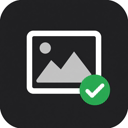
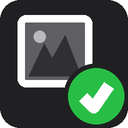
Enlarge toolbar status badges for readability (v1.5)
Redraw idle/supported/complete icons with larger corner badges and
thicker check/download glyphs so status stays clear at 16px toolbar size.

diff --git a/README.md b/README.md
@@ -1,6 +1,6 @@
 # Patreon Image Batch Downloader
 
-Manifest V3 extension (v1.4) for Chrome and desktop Firefox. It batch-extracts and downloads high-resolution images from Patreon posts.
+Manifest V3 extension (v1.5) for Chrome and desktop Firefox. It batch-extracts and downloads high-resolution images from Patreon posts.
 
 On a Patreon page, open the popup and scan. The extension collects post images (preferring original / download URLs), shows a preview, and can filter by minimum width or height. Optional auto-scroll loads more posts on feed pages before the scan. Downloads are saved under `Patreon_Downloads/`.
 
@@ -12,9 +12,11 @@ Chrome and Firefox load this same folder. Chrome 121+ runs `background.js` as a 
 
 The toolbar icon switches among three states in both browsers (`action.setIcon`):
 
-- **Idle** (`icons/default16.png`, `default48.png`, `default128.png`) — not on a Patreon page.
-- **Supported** (`icons/supported16.png`, `supported48.png`, `supported128.png`) — the active tab is a Patreon page.
-- **Complete** (`icons/complete16.png`, `complete48.png`, `complete128.png`) — a batch download just finished. The icon returns to idle or supported after a few seconds.
+- **Idle** (`icons/default16.png`, `default48.png`, `default128.png`) — not on a Patreon page (red download badge).
+- **Supported** (`icons/supported16.png`, `supported48.png`, `supported128.png`) — the active tab is a Patreon page (green check + red download badges).
+- **Complete** (`icons/complete16.png`, `complete48.png`, `complete128.png`) — a batch download just finished (green check badge). The icon returns to idle or supported after a few seconds.
+
+Status badges are drawn large with thick glyphs so they stay readable at the 16px toolbar size.
 
 `icons/icon128.png` is the same image as the idle 128px icon. `background.js` applies these states from tab changes and from popup messages (`SET_ICON_STATE`, `DOWNLOAD_COMPLETE`).
 
